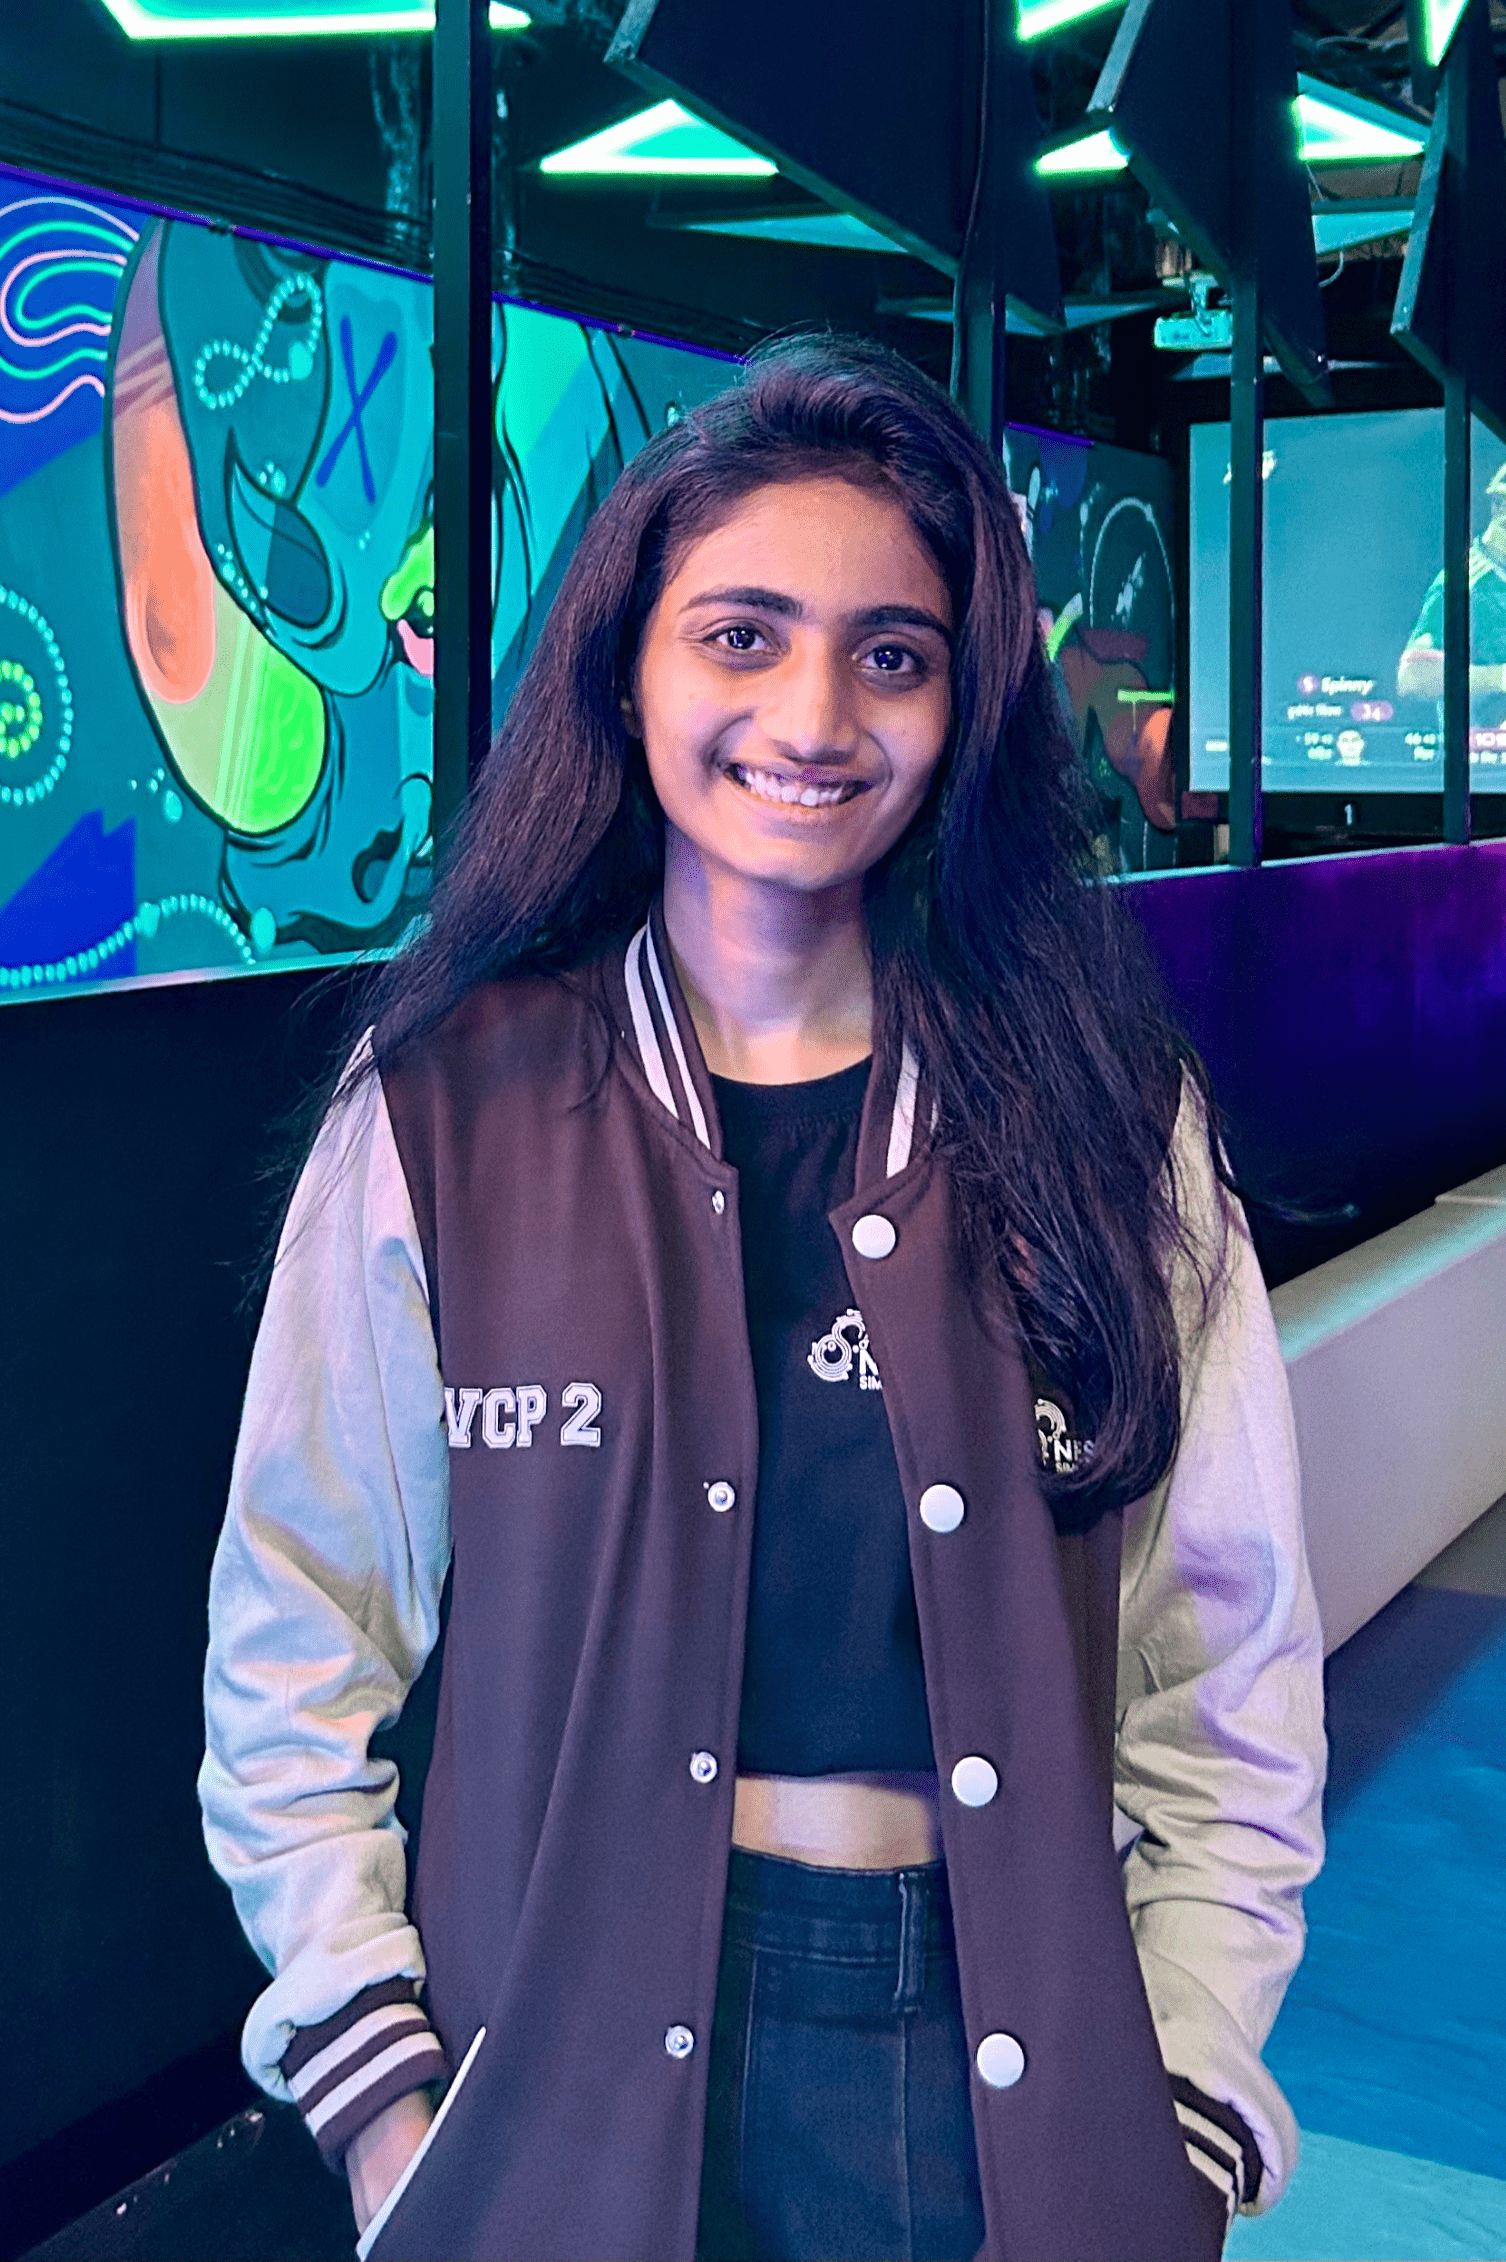
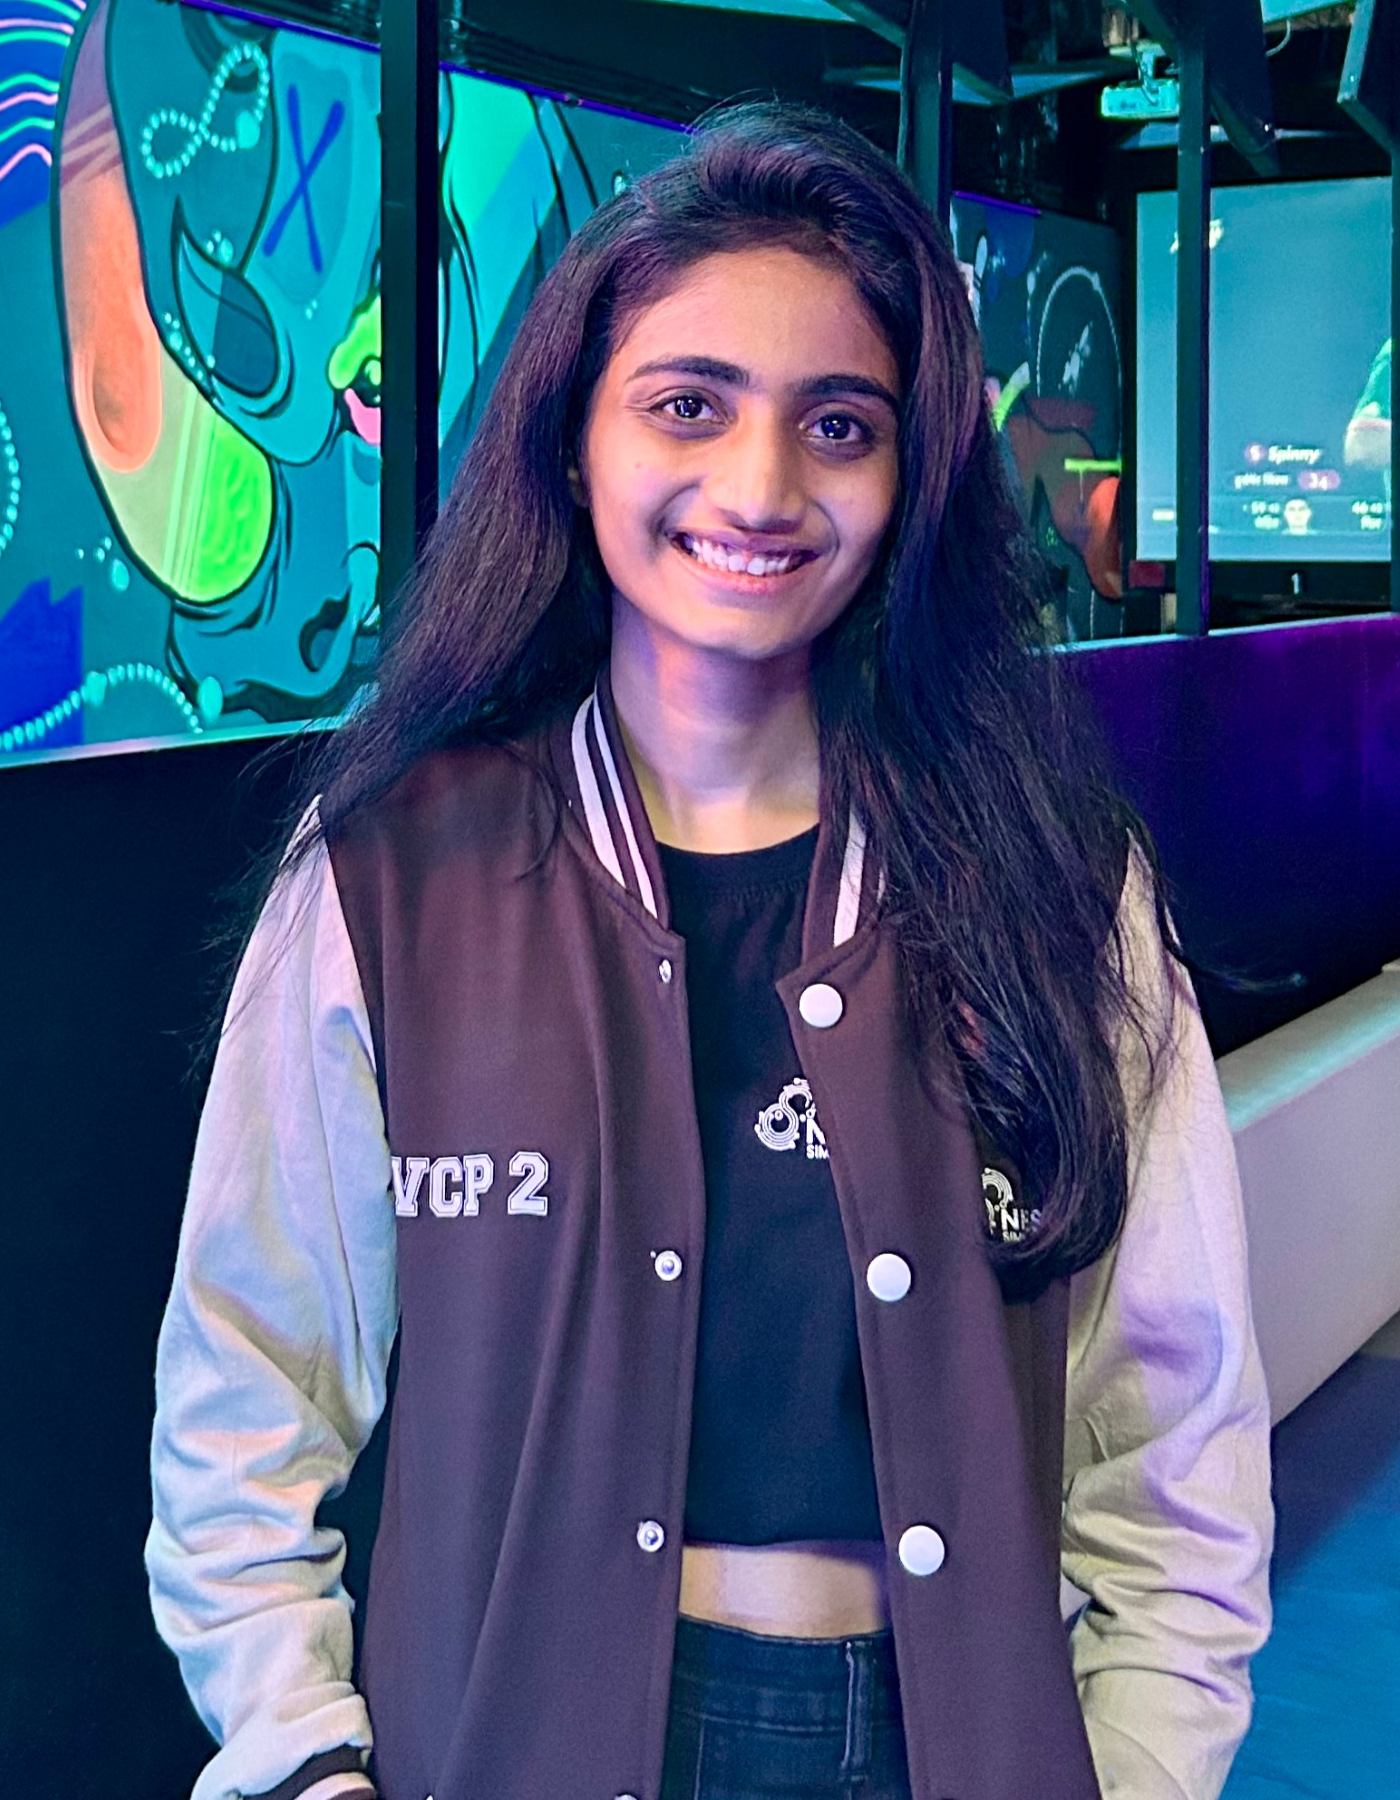
images

diff --git a/src/lib/mtt.ts b/src/lib/mtt.ts
@@ -1,22 +1,22 @@
 export const top = [
   {
     Name: "Anshika Tiberwala",
-    img: "/mtt/top/anshika.png",
+    img: "/mtt/top/anshika-1.png",
     desg: "Vice Chairperson 1",
   },
   {
     Name: "Kasvi Shah",
-    img: "/mtt/top/kasvi.png",
+    img: "/mtt/top/kasvi-1.png",
     desg: "Vice Chairperson 2",
   },
   {
     Name: "Kalp Jain",
-    img: "/mtt/top/Kalp.png",
+    img: "/mtt/top/Kalp-1.png",
     desg: "Vice Chairperson 3",
   },
   {
     Name: "Sean Vogt",
-    img: "/mtt/top/sean.png",
+    img: "/mtt/top/sean-1.png",
     desg: "Vice Chairperson 4",
   },
 ];
@@ -24,27 +24,27 @@ export const top = [
 export const V1 = [
   {
     Name: "Rishabh Jain",
-    img: "/mtt/v1/rishab.png",
+    img: "/mtt/v1/rishab-1.png",
     desg: "Fintech Events",
   },
   {
     Name: "Megha Agarwal",
-    img: "/mtt/v1/Megha.png",
+    img: "/mtt/v1/Megha-1.png",
     desg: "Fintech Events",
   },
   {
     Name: "Deepal Vora",
-    img: "/mtt/v1/deepal.png",
+    img: "/mtt/v1/deepal-1.png",
     desg: "Gaming Events",
   },
   {
     Name: "S. Aniruddha",
-    img: "/mtt/v1/anni.png",
+    img: "/mtt/v1/anni-1.png",
     desg: "Gaming Events",
   },
   {
     Name: "Suhani Shah",
-    img: "/mtt/v1/suhani.png",
+    img: "/mtt/v1/suhani-1.png",
     desg: "Informal Events",
   },
 ];
@@ -52,22 +52,22 @@ export const V1 = [
 export const V2 = [
   {
     Name: "Shivam Sukhija",
-    img: "/mtt/v2/shivam.png",
+    img: "/mtt/v2/shivam-1.png",
     desg: "WORKSHOPS & SUMMITS",
   },
   {
     Name: "Khushi Dama",
-    img: "/mtt/v2/khushi.png",
+    img: "/mtt/v2/khushi-1.png",
     desg: "WORKSHOPS & SUMMITS",
   },
   {
     Name: "Shorya Jain",
-    img: "/mtt/v2/shorya.png",
+    img: "/mtt/v2/shorya-1.png",
     desg: "CORPORATE RELATIONS",
   },
   {
     Name: "Kavya Vora",
-    img: "/mtt/v2/kavya.png",
+    img: "/mtt/v2/kavya-1.png",
     desg: "TECHEXPO",
   },
 ];
@@ -75,32 +75,32 @@ export const V2 = [
 export const V3 = [
   {
     Name: "Dwij Chheda",
-    img: "/mtt/v3/dwij.png",
+    img: "/mtt/v3/dwij-1.png",
     desg: "Marketing",
   },
   {
     Name: "Yashvi Dave",
-    img: "/mtt/v3/yashvi.png",
+    img: "/mtt/v3/yashvi-1.png",
     desg: "Public Relations",
   },
   {
     Name: "Vishal Nathwani",
-    img: "/mtt/v3/vishal.png",
+    img: "/mtt/v3/vishal-1.png",
     desg: "Finance",
   },
   {
     Name: "Bhumi Gada",
-    img: "/mtt/v3/bhoomi.png",
+    img: "/mtt/v3/bhoomi-1.png",
     desg: "Finance",
   },
   {
     Name: "aayush Chheda",
-    img: "/mtt/v3/aayush.png",
+    img: "/mtt/v3/aayush-1.png",
     desg: "Print Media",
   },
   {
     Name: "Mantra Savla",
-    img: "/mtt/v3/mantra.png",
+    img: "/mtt/v3/mantra-1.png",
     desg: "Print Media",
   },
   {
@@ -110,12 +110,12 @@ export const V3 = [
   },
   {
     Name: "Vanya Panjabi",
-    img: "/mtt/v3/vanya.png",
+    img: "/mtt/v3/vanya-1.png",
     desg: "Hospitality",
   },
   {
     Name: "Parth Kuyate",
-    img: "/mtt/v3/parth.png",
+    img: "/mtt/v3/parth-1.png",
     desg: "Hospitality",
   },
 ];
@@ -123,42 +123,42 @@ export const V3 = [
 export const V4 = [
   {
     Name: "Divya Suvarna",
-    img: "/mtt/v4/divya.png",
+    img: "/mtt/v4/divya-1.png",
     desg: "Management",
   },
   {
     Name: "Rishav Mukherjee",
-    img: "/mtt/v4/rishav.png",
+    img: "/mtt/v4/rishav-1.png",
     desg: "Management",
   },
   {
     Name: "Mohal Shah",
-    img: "/mtt/v4/mohal.png",
+    img: "/mtt/v4/mohal-1.png",
     desg: "Human Resources",
   },
   {
     Name: "Harsh Lathiya",
-    img: "/mtt/v4/harsh.png",
+    img: "/mtt/v4/harsh-1.png",
     desg: "Human Resources",
   },
   {
     Name: "Hardi Thakkar",
-    img: "/mtt/v4/hardi.png",
+    img: "/mtt/v4/hardi-1.png",
     desg: "Technicals",
   },
   {
     Name: "Hardik Malhotra",
-    img: "/mtt/v4/hardik.png",
+    img: "/mtt/v4/hardik-1.png",
     desg: "Technicals",
   },
   {
     Name: "Natasha Shah",
-    img: "/mtt/v4/natasha.png",
+    img: "/mtt/v4/natasha-1.png",
     desg: "RESEARCH & EDITORIALS",
   },
   {
     Name: "Sakshi Rai",
-    img: "/mtt/v4/saskhi.png",
+    img: "/mtt/v4/saskhi-1.png",
     desg: "RESEARCH & EDITORIALS",
   },
   {
@@ -168,7 +168,7 @@ export const V4 = [
   },
   {
     Name: "Nishika Tulsyan",
-    img: "/mtt/v4/nishika.png",
+    img: "/mtt/v4/nishika-1.png",
     desg: "Digital Arts",
   },
 ];

diff --git a/src/app/Meet-The-Team/page.tsx b/src/app/Meet-The-Team/page.tsx
@@ -19,7 +19,7 @@ const MeetTheTeam = () => {
 
           <main>
             <Card
-              src="/mtt/top/devB.png"
+              src="/mtt/top/devB-1.png"
               name="Dev Barot"
               desg="Chairperson"
             />
@@ -27,7 +27,7 @@ const MeetTheTeam = () => {
             <Cards data={top} />
 
             <Card
-              src="/mtt/top/aayushpatel.png"
+              src="/mtt/top/aayushpatel-1.png"
               name="Aayush Patel"
               desg="Fest Advisor"
             />
